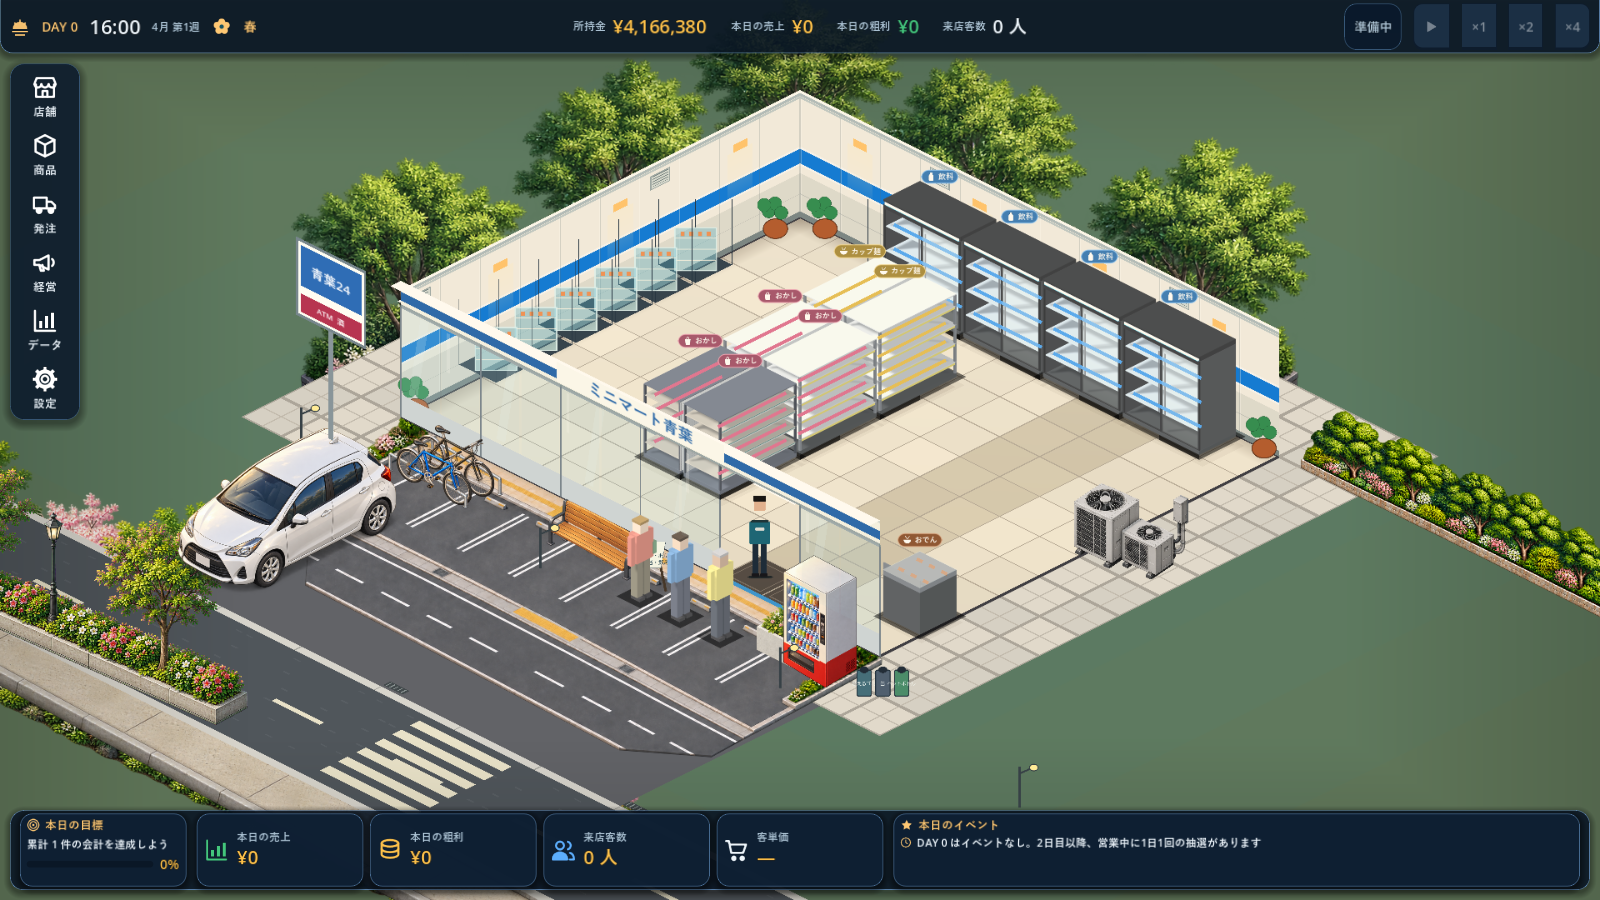
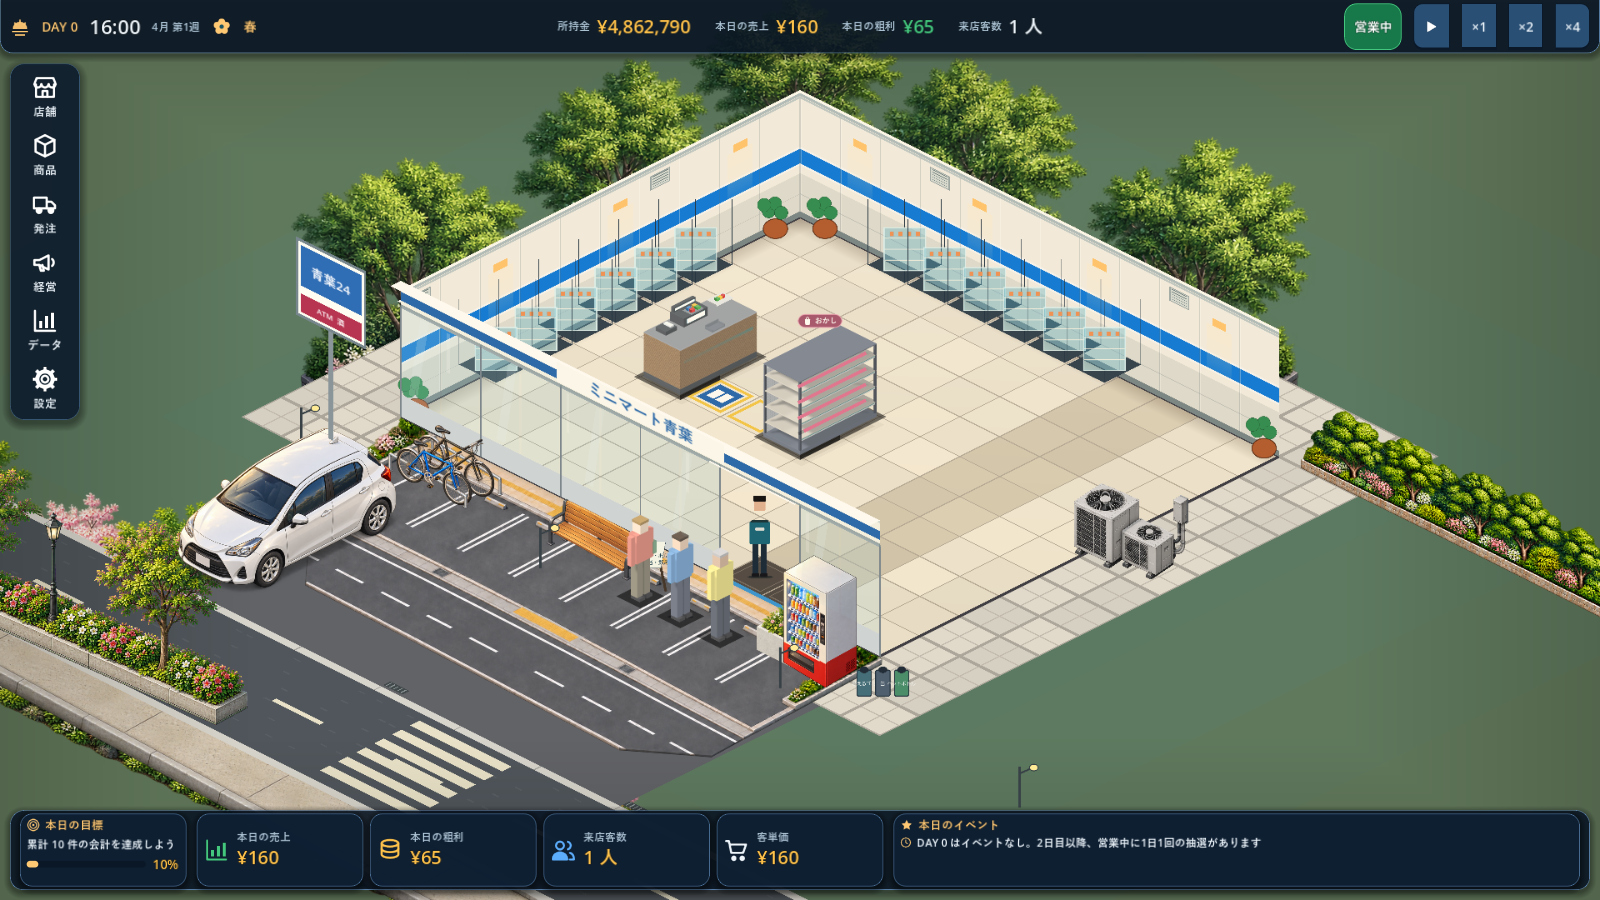
Record small-store and entrance orientation captures

diff --git a/docs/qa/exterior-area-a/RESULTS.md b/docs/qa/exterior-area-a/RESULTS.md
@@ -54,12 +54,16 @@ Actual runtime captures at 1600x900:
 
 | Store size | Capture | Observation |
 |---|---|---|
-| 12x10 | `grove-sidewalk-12x10-1600x900-2026-10-29.png` | Grove roots stay behind the road edge and wall; canopies remain above the rear wall. Capture landed in the game's construction/preparation state, so it is geometry evidence, not a business-running comparison. |
+| 12x10 | `grove-sidewalk-12x10-1600x900-2026-10-29.png` | A compatible minimal register/shelf layout is used so the store opens. The full exterior remains visible and the grove roots stay behind the wall. |
 | 16x12 | `grove-sidewalk-16x12-1600x900-2026-10-29.png` | Generated sidewalk strip and rooted grove visible; wall occludes the lower planting. |
 | 20x16 | `grove-sidewalk-20x16-1600x900-2026-10-29.png` | Both rear branches and the generated sidewalk strip reach the store ends without a visible root gap. |
 | 20x16, zoomed and panned | `grove-sidewalk-panzoom-20x16-2026-10-29.png` | Ground-anchored planting and sidewalk follow the camera; no wall gap appears during the changed view. |
+| 20x16, east entrance | `entrance-east-20x16-1600x900-2026-10-29.png` | Entrance move succeeded; road/sidewalk pivot with the frontage, while the rear planting keeps both wall endpoints covered. |
+| 20x16, north entrance | `entrance-north-20x16-1600x900-2026-10-29.png` | Entrance move succeeded; the rotated road remains connected to the store edge. The existing side planting reads as spaced planters from this view, not a continuous bed. |
 
-Focused placement checks cover all four sides for 12x10, 16x12, and 20x16 and assert both planting and sidewalk endpoints against projected world positions. `test_backdrop_layer` currently passes 17 tests / 173 assertions. The 16x12 and 20x16 captures show the running business state; the 12x10 capture is explicitly limited to geometry evidence because the capture helper left the store in preparation state.
+Focused placement checks cover all four sides for 12x10, 16x12, and 20x16 and assert both planting and sidewalk endpoints against projected world positions. `test_backdrop_layer` currently passes 17 tests / 173 assertions. The 12x10 capture uses a minimal compatible register/shelf layout so the store reaches the running business state. East/north entrance captures also show the running state; north-side planting density is still lower than the target mockup.
+
+Two additional grouped planting candidates were generated in parallel for outer greenery and flowering borders. They remain unintegrated: both have visible saturated color fringes at the transparency edge and would need corrected source art before adoption.
 
 ## Remaining differences from the target mockup
 
